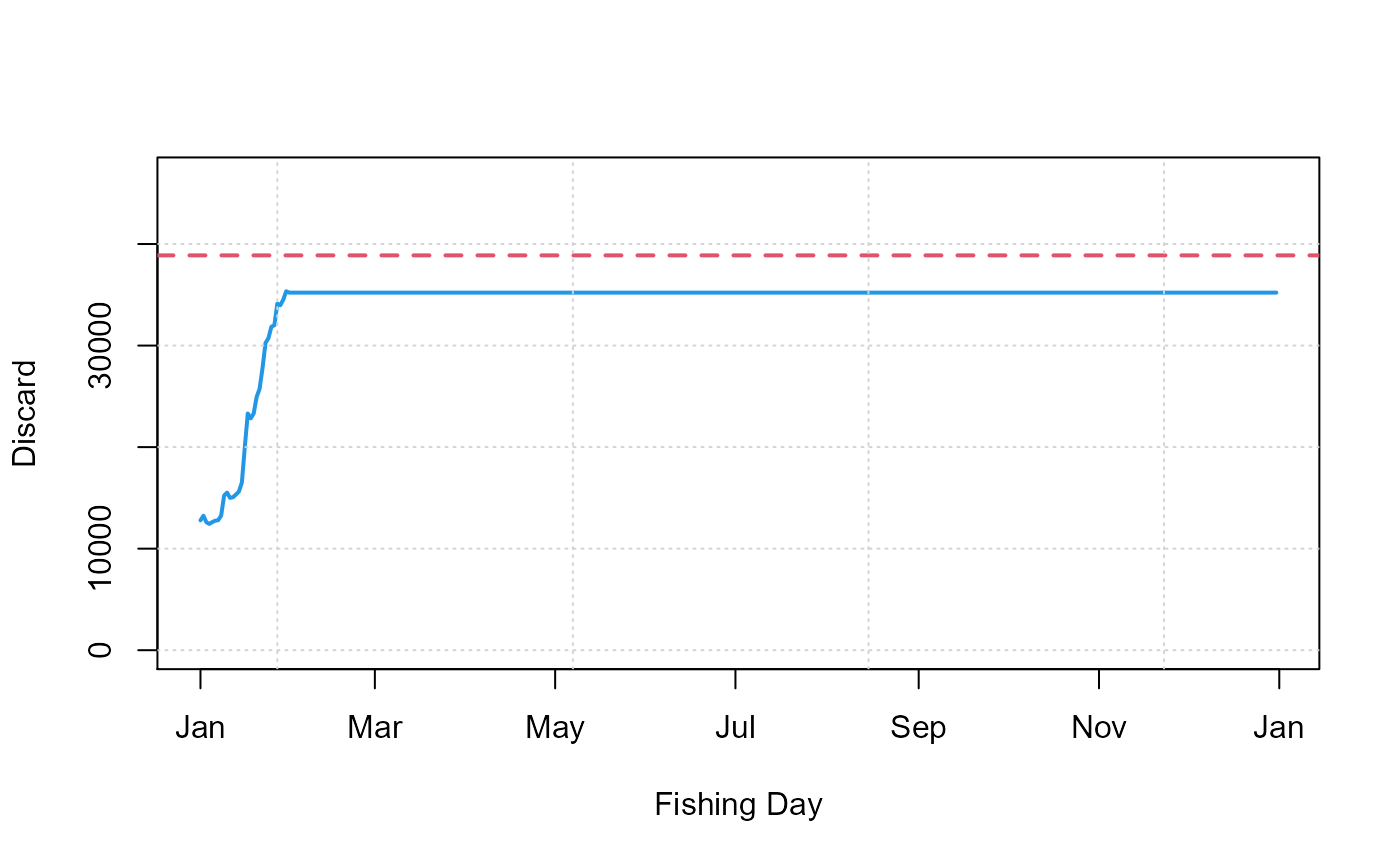
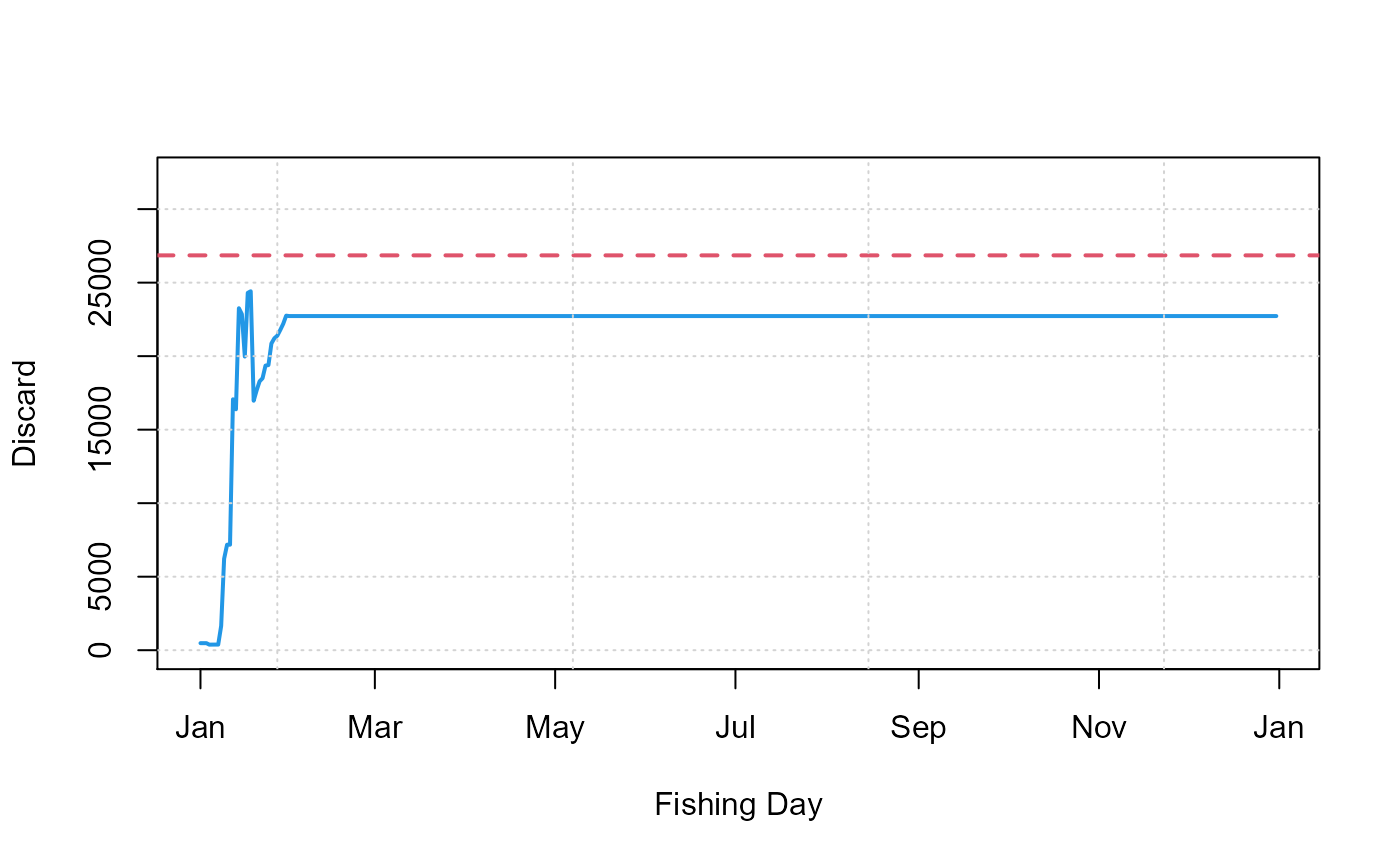
update yml

Changed region(s): [[0.1536, 0.3121, 0.9214, 0.7491], [0.0614, 0.2809, 0.0921, 0.5306], [0.0614, 0.5931, 0.0921, 0.7179]]

diff --git a/docs/articles/eflalo_demo.html b/docs/articles/eflalo_demo.html
@@ -129,7 +129,7 @@
 ##  $ LE_UNIT      : Factor w/ 1 level "KWDAYS": 1 1 1 1 1 1 1 1 1 1 ...
 ##  $ LE_EFF       : num  139.2 148.1 23.9 197.1 72.9 ...
 ##  $ LE_EFF_VMS   : logi  NA NA NA NA NA NA ...
-##  $ OBSFLAG      : num  0 0 1 0 1 0 0 0 0 1 ...
+##  $ OBSFLAG      : num  0 0 0 0 0 0 0 0 0 0 ...
 ##  $ FT_REF2      : int  1 2 3 4 5 6 7 8 9 10 ...
 ##  $ NESPP3       : chr  "LE_KG_ANE" "LE_KG_ANE" "LE_KG_ANE" "LE_KG_ANE" ...
 ##  $ LIVE_POUNDS  : num  0 0 0 0 0 0 0 0 0 0 ...
@@ -184,8 +184,8 @@
 , row.names <span class="op">=</span> <span class="fu"><a href="https://rdrr.io/r/base/c.html">c</a></span><span class="op">(</span><span class="st">'y0'</span>,<span class="st">'y1'</span><span class="op">)</span>
 <span class="op">)</span></code></pre></div>
 <pre><code>##               r     CVTOT
-## y0 4.359141e-05 0.3028853
-## y1 1.258228e-04 0.3079347</code></pre>
+## y0 0.0002634427 0.6229064
+## y1 0.0002394019 0.4312862</code></pre>
 </div>
 <div id="run-with-a-transition-rate" class="section level2">
 <h2 class="hasAnchor">
@@ -195,7 +195,7 @@
     <span class="va">dest</span> <span class="op">&lt;-</span> <span class="fu"><a href="../reference/cochran.trans.calc.html">cochran.trans.calc</a></span><span class="op">(</span>bydat_focal <span class="op">=</span> <span class="va">bydat_focal</span>, trips_focal <span class="op">=</span> <span class="va">trips_focal</span>, bydat_prev <span class="op">=</span> <span class="va">bydat_prev</span>, trips_prev <span class="op">=</span> <span class="va">trips_prev</span>, CV_target <span class="op">=</span><span class="fl">.3</span>, strata_name <span class="op">=</span> <span class="st">"STRATA"</span>, strata_complete <span class="op">=</span> <span class="va">strata_complete</span>, time_span <span class="op">=</span> <span class="fu"><a href="https://rdrr.io/r/base/c.html">c</a></span><span class="op">(</span><span class="va">minday</span>, <span class="fl">365</span><span class="op">)</span><span class="op">)</span>
 
 <span class="fu"><a href="https://rdrr.io/r/utils/str.html">str</a></span><span class="op">(</span><span class="va">dest</span><span class="op">$</span><span class="va">D</span><span class="op">)</span></code></pre></div>
-<p>num [1:20, 1:365] 0 0 0 18.9873 0.0534 … - attr(*, “dimnames”)=List of 2 ..$ : chr [1:20] “DRB_MOL_0_0_0” “FPO_CRU_0_0_0” “GNS_DEF_0_0_0” “GNS_DEF_100-119_0_0” … ..$ : chr [1:365] “1” “2” “3” “4” …</p>
+<p>num [1:20, 1:365] 0 0 0 0.522 0 … - attr(*, “dimnames”)=List of 2 ..$ : chr [1:20] “DRB_MOL_0_0_0” “FPO_CRU_0_0_0” “GNS_DEF_0_0_0” “GNS_DEF_100-119_0_0” … ..$ : chr [1:365] “1” “2” “3” “4” …</p>
 </div>
 <div id="plot-the-total-discard" class="section level2">
 <h2 class="hasAnchor">

diff --git a/docs/reference/cochran.calc.ss.html b/docs/reference/cochran.calc.ss.html
@@ -190,7 +190,7 @@
 #&gt;         REQ_COV = req_samples/l_N)
 #&gt;     return(output)
 #&gt; }
-#&gt; &lt;bytecode: 0x000000002f761ce0&gt;
+#&gt; &lt;bytecode: 0x000000002f36d6a8&gt;
 #&gt; &lt;environment: namespace:discaRd&gt;</div></pre>
   </div>
   <div class="col-md-3 hidden-xs hidden-sm" id="pkgdown-sidebar">

diff --git a/docs/reference/cochran.trans.calc.html b/docs/reference/cochran.trans.calc.html
@@ -277,7 +277,7 @@ either number of trips (<code>trans_method='ntrips'</code>)</p></td>
 #&gt;         return(list(D = daily.D))
 #&gt;     }
 #&gt; }
-#&gt; &lt;bytecode: 0x000000003121f270&gt;
+#&gt; &lt;bytecode: 0x0000000030e0cfe8&gt;
 #&gt; &lt;environment: namespace:discaRd&gt;</div></pre>
   </div>
   <div class="col-md-3 hidden-xs hidden-sm" id="pkgdown-sidebar">

diff --git a/docs/reference/get.cochran.ss.by.strat.html b/docs/reference/get.cochran.ss.by.strat.html
@@ -228,7 +228,7 @@ desired from the output (including unobserved).</p></td>
 #&gt;     }
 #&gt;     list(C = C, tout = tout, CVTOT = CVTOT, rTOT = rTOT)
 #&gt; }
-#&gt; &lt;bytecode: 0x000000002fea3f50&gt;
+#&gt; &lt;bytecode: 0x000000002fd520b8&gt;
 #&gt; &lt;environment: namespace:discaRd&gt;</div></pre>
   </div>
   <div class="col-md-3 hidden-xs hidden-sm" id="pkgdown-sidebar">

diff --git a/docs/reference/get.weighted.cv.html b/docs/reference/get.weighted.cv.html
@@ -177,7 +177,7 @@
 #&gt;     targall$SAMPTOT = samptot$SAMPTOT[totidx]
 #&gt;     targall
 #&gt; }
-#&gt; &lt;bytecode: 0x00000000326d2cd0&gt;
+#&gt; &lt;bytecode: 0x000000003266de18&gt;
 #&gt; &lt;environment: namespace:discaRd&gt;</div></pre>
   </div>
   <div class="col-md-3 hidden-xs hidden-sm" id="pkgdown-sidebar">

diff --git a/docs/reference/setup.parallel.html b/docs/reference/setup.parallel.html
@@ -145,7 +145,7 @@
 #&gt;     cat(paste("\nUsing", n.cores, "cores for parallel processing."))
 #&gt;     mcoptions
 #&gt; }
-#&gt; &lt;bytecode: 0x000000001277e658&gt;
+#&gt; &lt;bytecode: 0x0000000015a3f260&gt;
 #&gt; &lt;environment: namespace:discaRd&gt;</div></pre>
   </div>
   <div class="col-md-3 hidden-xs hidden-sm" id="pkgdown-sidebar">

diff --git a/docs/reference/vary.bigN.html b/docs/reference/vary.bigN.html
@@ -156,7 +156,7 @@
 #&gt;     names(s)[4:5] = c("RE_se", "RE_rse")
 #&gt;     s
 #&gt; }
-#&gt; &lt;bytecode: 0x0000000030fd11a8&gt;
+#&gt; &lt;bytecode: 0x00000000323bd6c8&gt;
 #&gt; &lt;environment: namespace:discaRd&gt;</div></pre>
   </div>
   <div class="col-md-3 hidden-xs hidden-sm" id="pkgdown-sidebar">